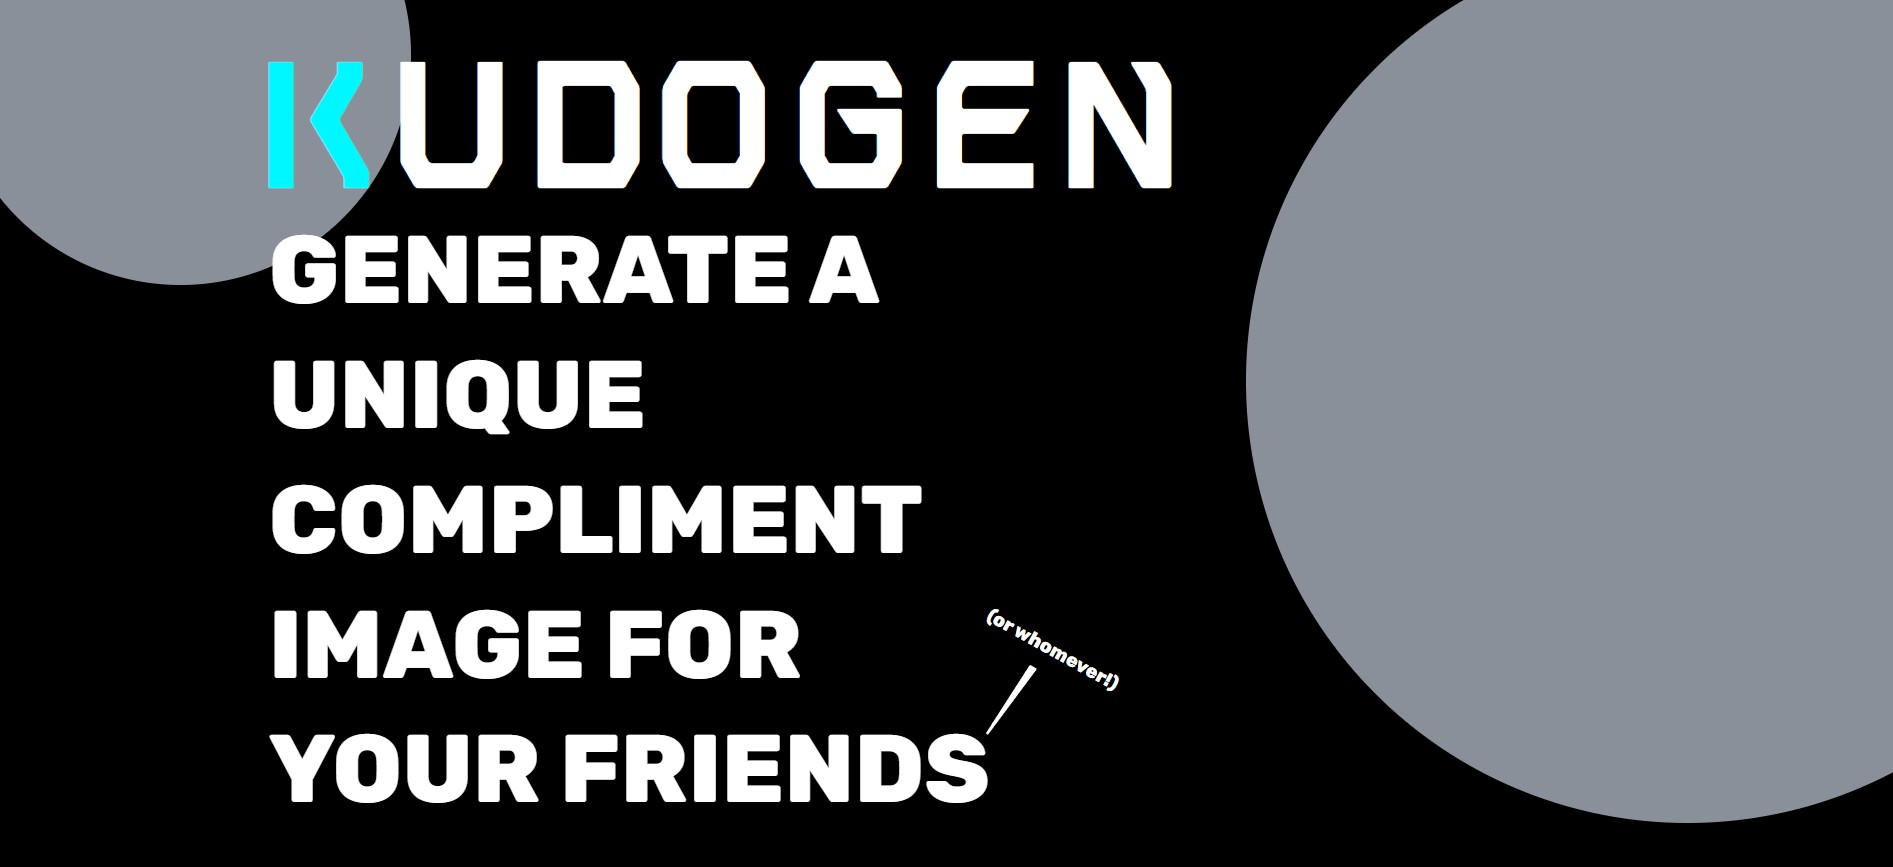
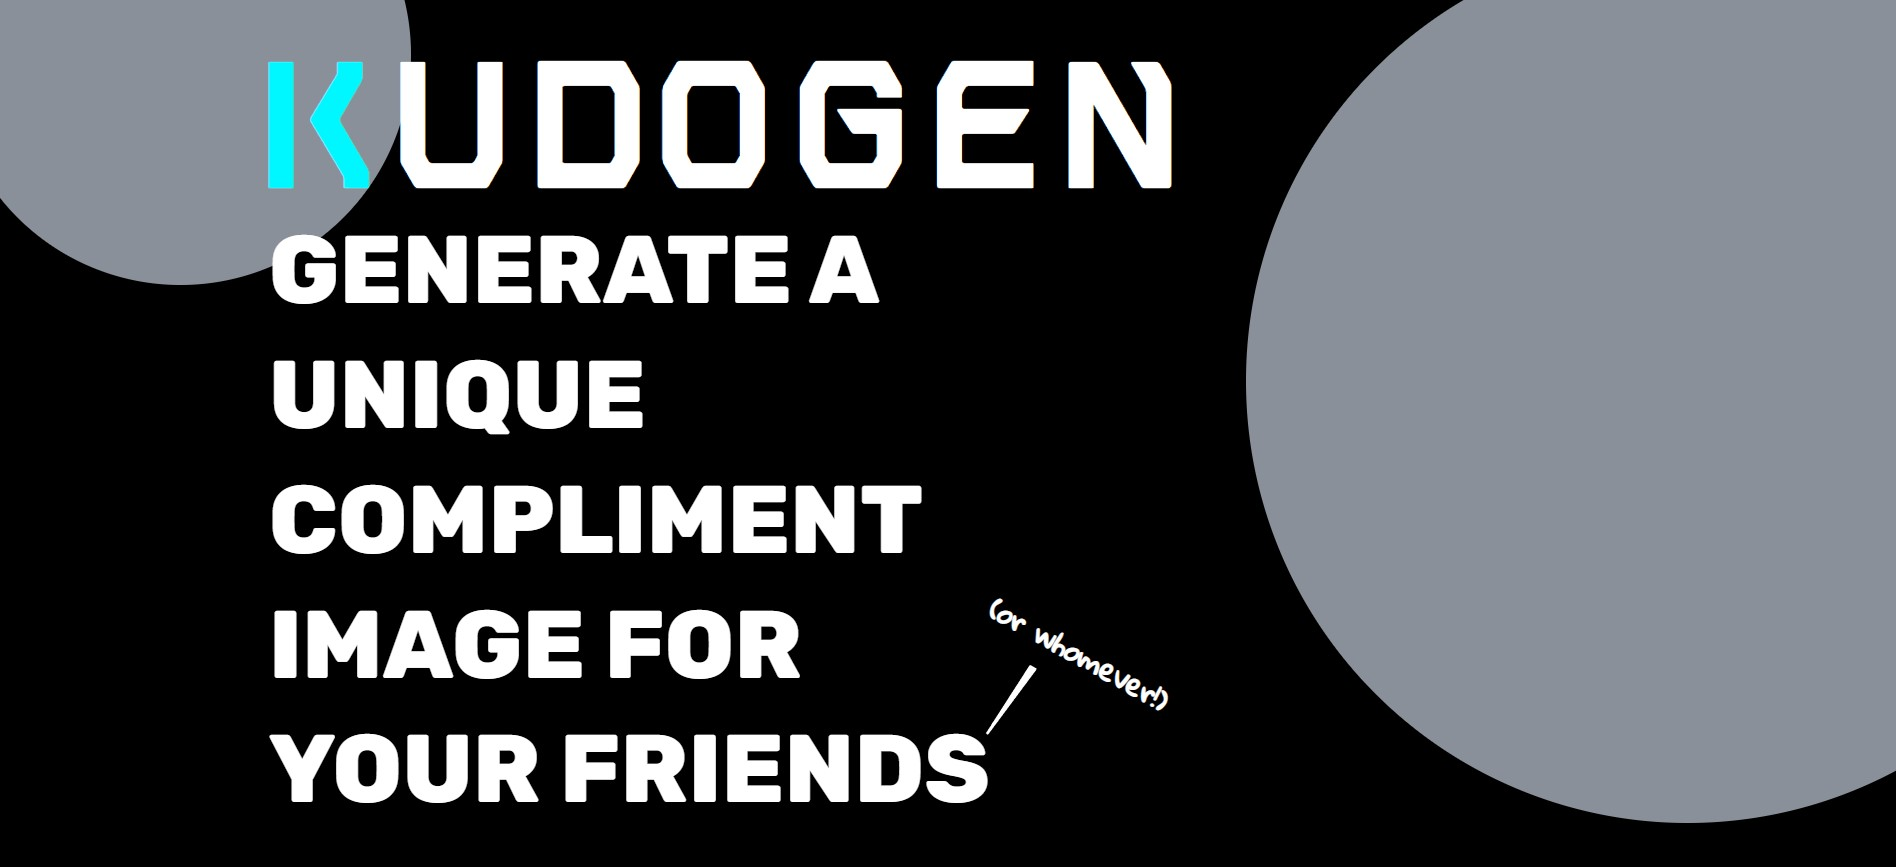
added handwriting font

diff --git a/src/Home.js b/src/Home.js
@@ -15,12 +15,12 @@ const Home = () => {
           </h1>
           <h2>generate a unique compliment image for your friends </h2>
           <img src={pointer} alt="arrow" className="pointer" />
-          <span className="whomever">(or whomever!)</span>
+          <span className="whomever handwriting">(or whomever!)</span>
         </div>
         <div className="triangle"></div>
       </header>
       <main>
-        <p class="get-started">Let's get started!</p>
+        <p class="get-started handwriting">Let's get started!</p>
         <form>
           <div className="name-set username-set">
             <label htmlFor="username">My name:</label>
@@ -39,7 +39,7 @@ const Home = () => {
             <img src={star} alt="star" className="star star-1" />
             <div className="greeting">
               <p className="greeting-hi">Hi,</p>
-              <p className="greeting-name">WWWWWWWWWWWWWWWWWWWW!</p>
+              <p className="greeting-name">Nathaniel!</p>
               {/* WWWWWWWWWWWWWWWWWWWWWWWWW */}
             </div>
             <img src={star} alt="star" className="star star-2" />
@@ -110,7 +110,7 @@ const Home = () => {
             <div class="color-splotch"></div>
             <div class="color-splotch"></div>
           </div>
-          <p>Gimme a new set</p>
+          <p className="handwriting">Gimme a new set</p>
           <label htmlFor="description">
             The following text will appear in your result, so edit it however
             you like:
@@ -178,8 +178,10 @@ const Home = () => {
           <h4>Activity</h4>
           <h4>Food</h4>
           <h4>Object</h4>
-          <p>That's it! Are you ready to do this??</p>
-          <button type="submit">Compliment My Friend</button>
+          <p className="handwriting">That's it! Are you ready to do this??</p>
+          <button type="submit" className="submit">
+            Compliment My Friend
+          </button>
         </form>
       </main>
     </div>

diff --git a/src/Home.css b/src/Home.css
@@ -8,7 +8,7 @@
   src: URL("../vger-bold.ttf") format("truetype");
 }
 
-@import url("https://fonts.googleapis.com/css2?family=Rubik:ital,wght@0,400;0,500;0,600;0,700;0,800;0,900;1,300;1,400;1,500;1,600;1,700;1,800;1,900&display=swap");
+@import url("https://fonts.googleapis.com/css2?family=Gloria+Hallelujah&family=Rubik:ital,wght@0,400;0,500;0,600;0,700;0,800;0,900;1,300;1,400;1,500;1,600;1,700;1,800;1,900&display=swap");
 
 /************* #RESET & NORMALIZE *************/
 @import-normalize;
@@ -145,6 +145,10 @@ body {
   font-weight: 800;
 }
 
+.handwriting {
+  font-family: "Gloria Hallelujah", cursive;
+}
+
 /************* #HEADER *************/
 header {
   height: 100vh;
@@ -210,7 +214,7 @@ h2 {
   top: 33.5vw;
   left: 51vw;
   transform: rotate(29deg);
-  font-size: 1vw;
+  font-size: 1.5vw;
 }
 
 .triangle {
@@ -306,4 +310,10 @@ form {
 
 .greeting-name {
   font-size: 5vw;
+}
+
+/* Bottom */
+.submit {
+  font-family: "Rubik", sans-serif;
+  text-transform: uppercase;
 }
